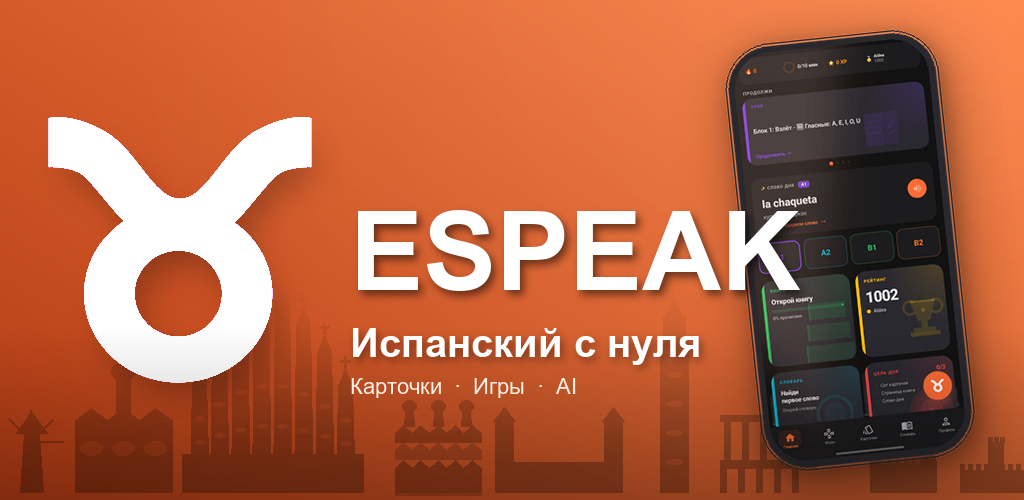
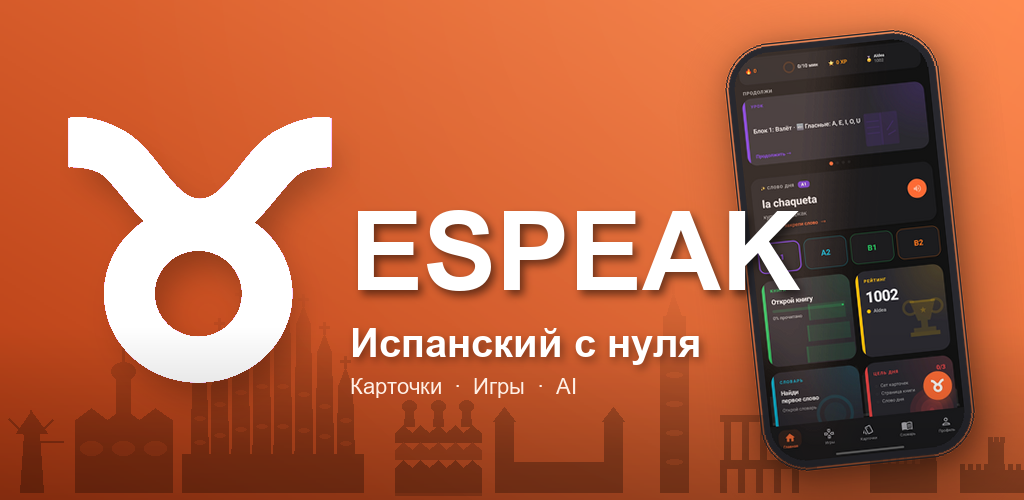
fix(play/feature): tighten bull-text gap from 30px to ~5px
Previous bull_x=-40 left an awkwardly large gap. Pulled back to -20
so the bull's right edge lands ~5px before the "E" of ESPEAK —
visual proximity restored without overlap.

Changed region(s): [[0.0312, 0.21, 0.3438, 0.78]]

diff --git a/docs/play_assets/_make_feature_v8.py b/docs/play_assets/_make_feature_v8.py
@@ -349,7 +349,7 @@ bull_with_shadow = with_shadow(bull, ox=10, oy=20, blur=20, alpha=150)
 # So with bull_x=20, visible bull right edge was at 20+70+300=390 — text
 # starts at 350 → 40px overlap. Pull bull 60px left so visible right
 # edge clears text with a 20px gap (was bull_x=20 → -40).
-bull_x = -40
+bull_x = -20      # closer to text — touches ~5px gap (was -40 → 30px gap)
 # Vertical alignment: bull bottom with text bottom.
 # Text bottom (last "Карточки…" line) ≈ y_text + 184 + 22 ≈ 396.
 # Visible bull bottom = bull_y + 70 + 300 → set bull_y so bottom = 400.
